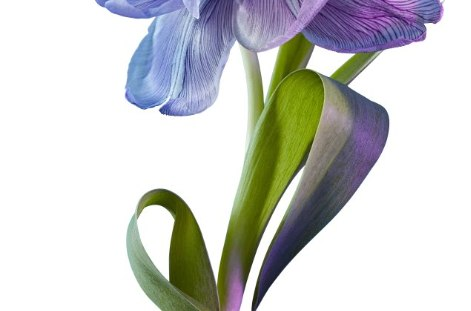
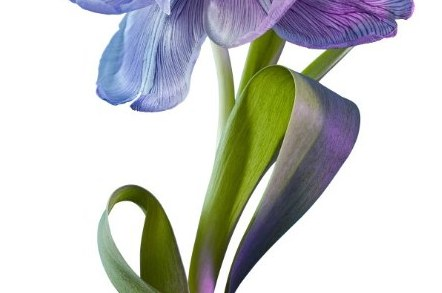
FLORA封面终极版: 以亮花冠盒子(x140-372,y370-590)为中心裁剪,花冠纵向占83%横向52%充满卡片; 哨兵47

Changed region(s): [[0.1471, 0.0, 0.9412, 1.0], [0.7647, 0.5222, 0.7941, 0.5836]]

diff --git a/index.html b/index.html
@@ -5,7 +5,7 @@
 <script>
 /* 版本哨兵 v37：本行只存在于新版。若 URL 未带本版参数 → 跳转到带参数的新 URL，绕开一切旧缓存 */
 (function(){
-  var V='46';
+  var V='47';
   var q=location.search||'';
   if(q.indexOf('sv='+V)<0){
     location.replace(location.pathname+(q?q+'&':'?')+'sv='+V);
